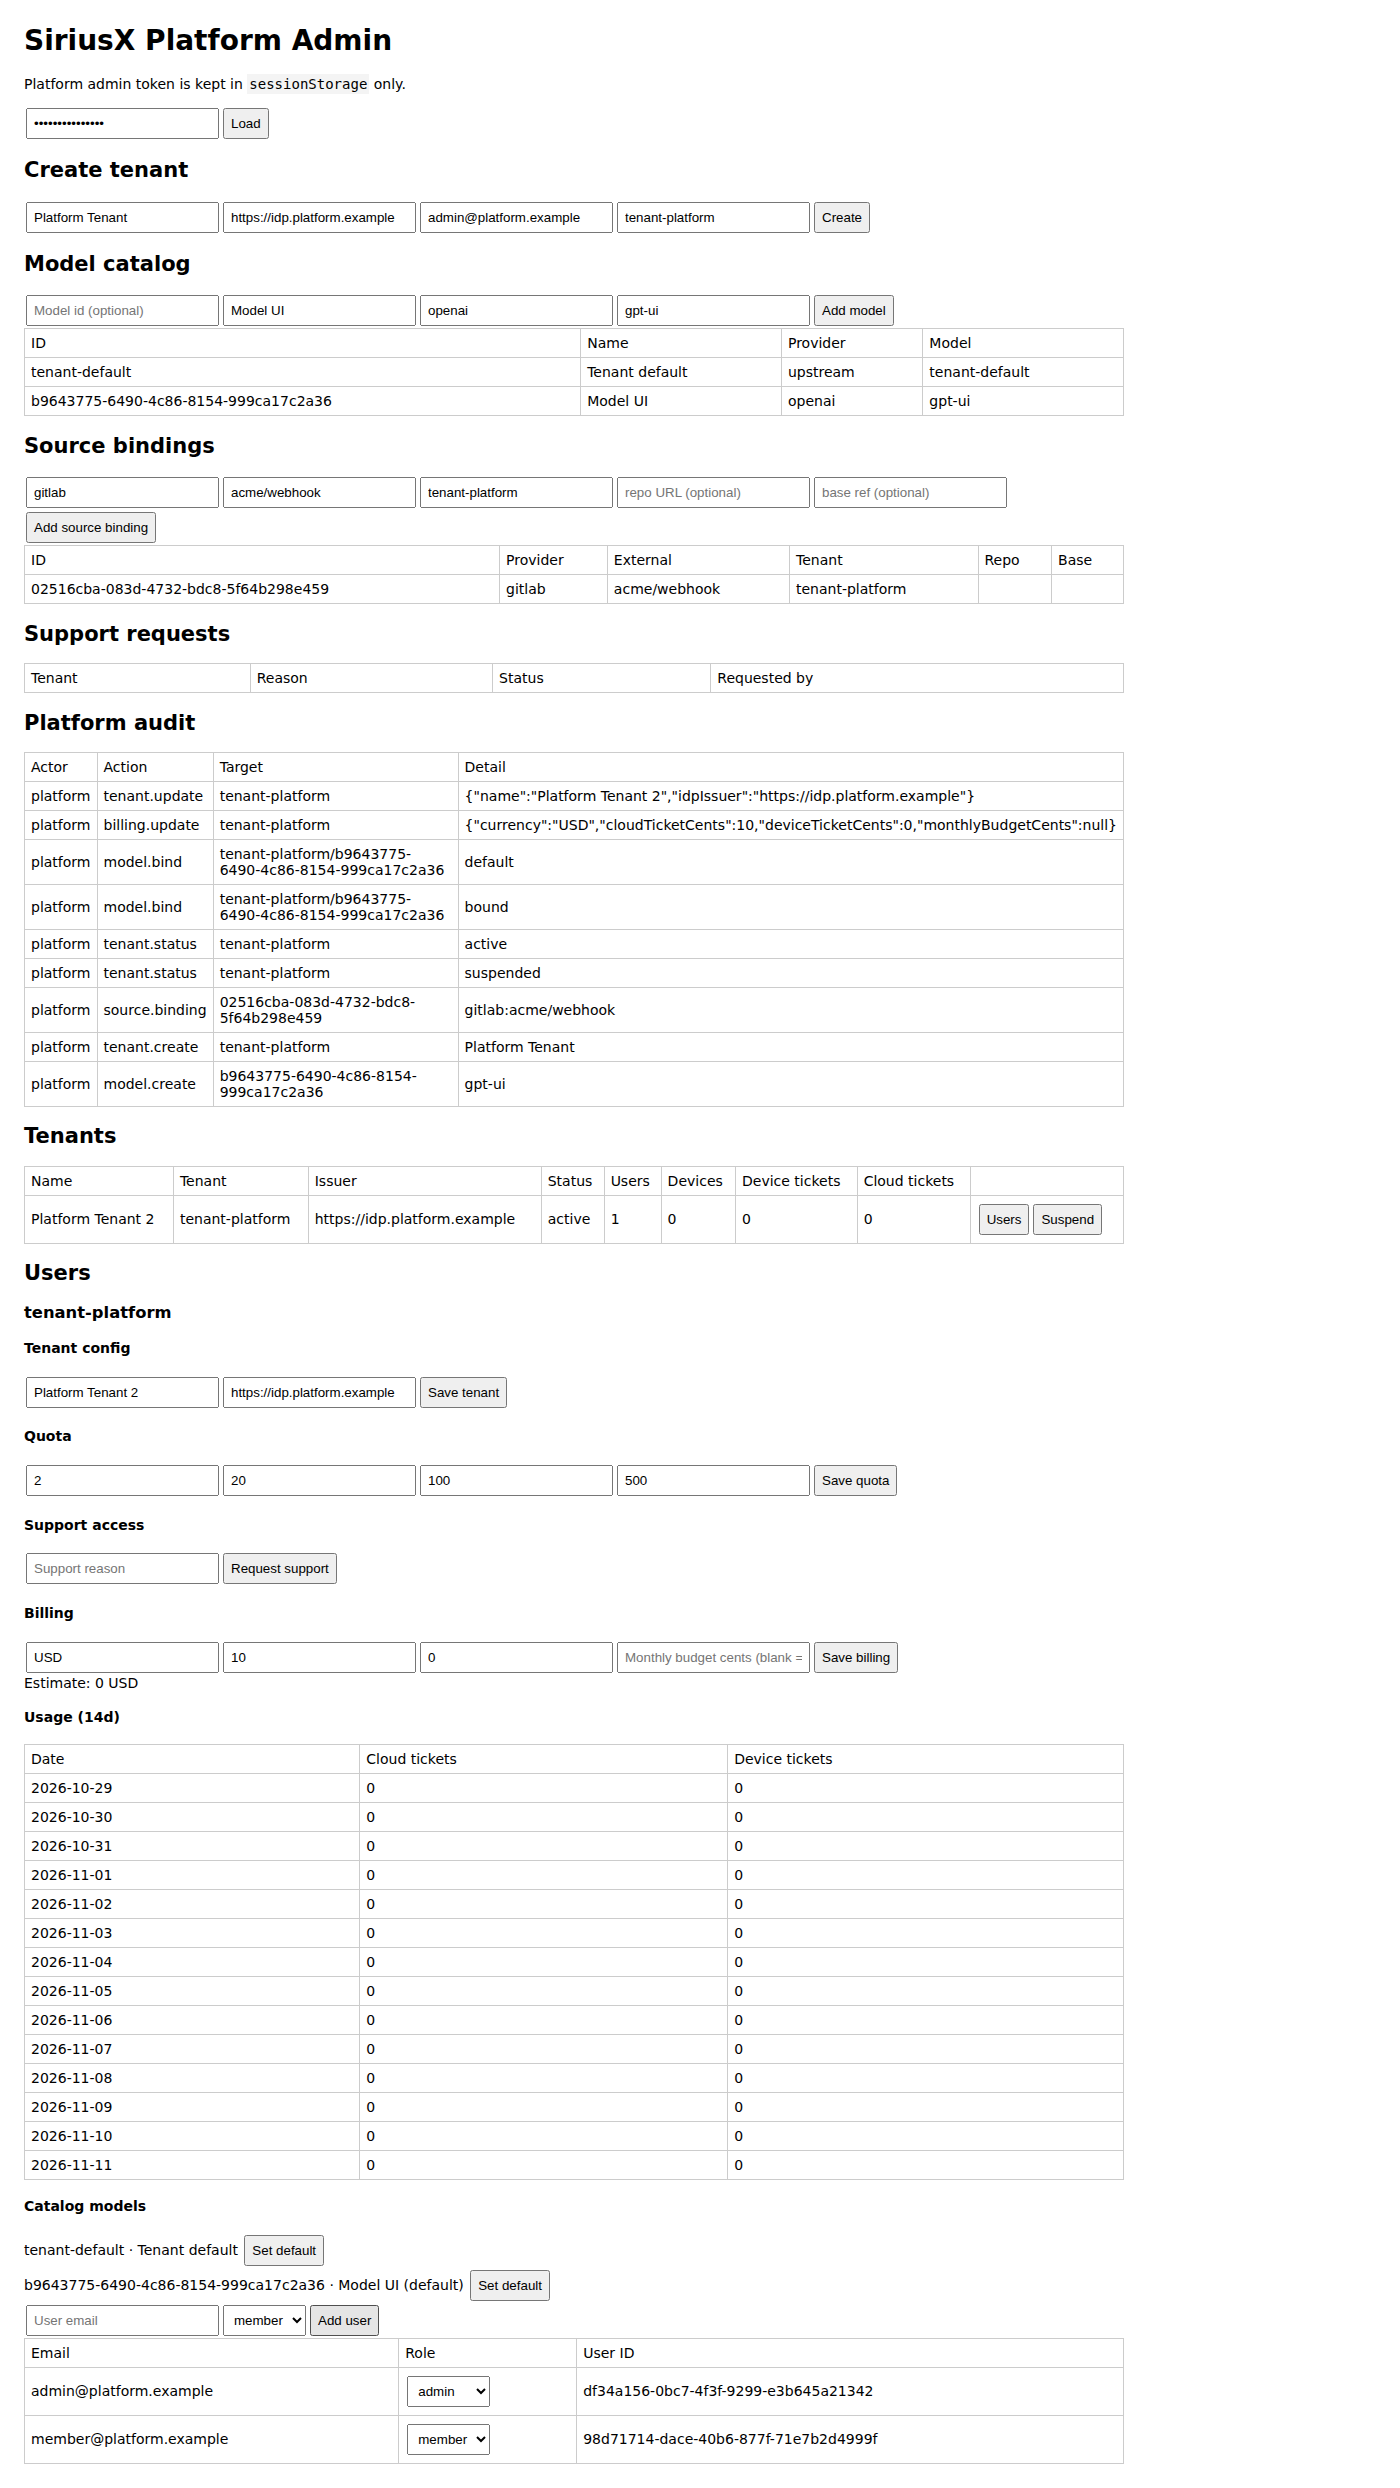
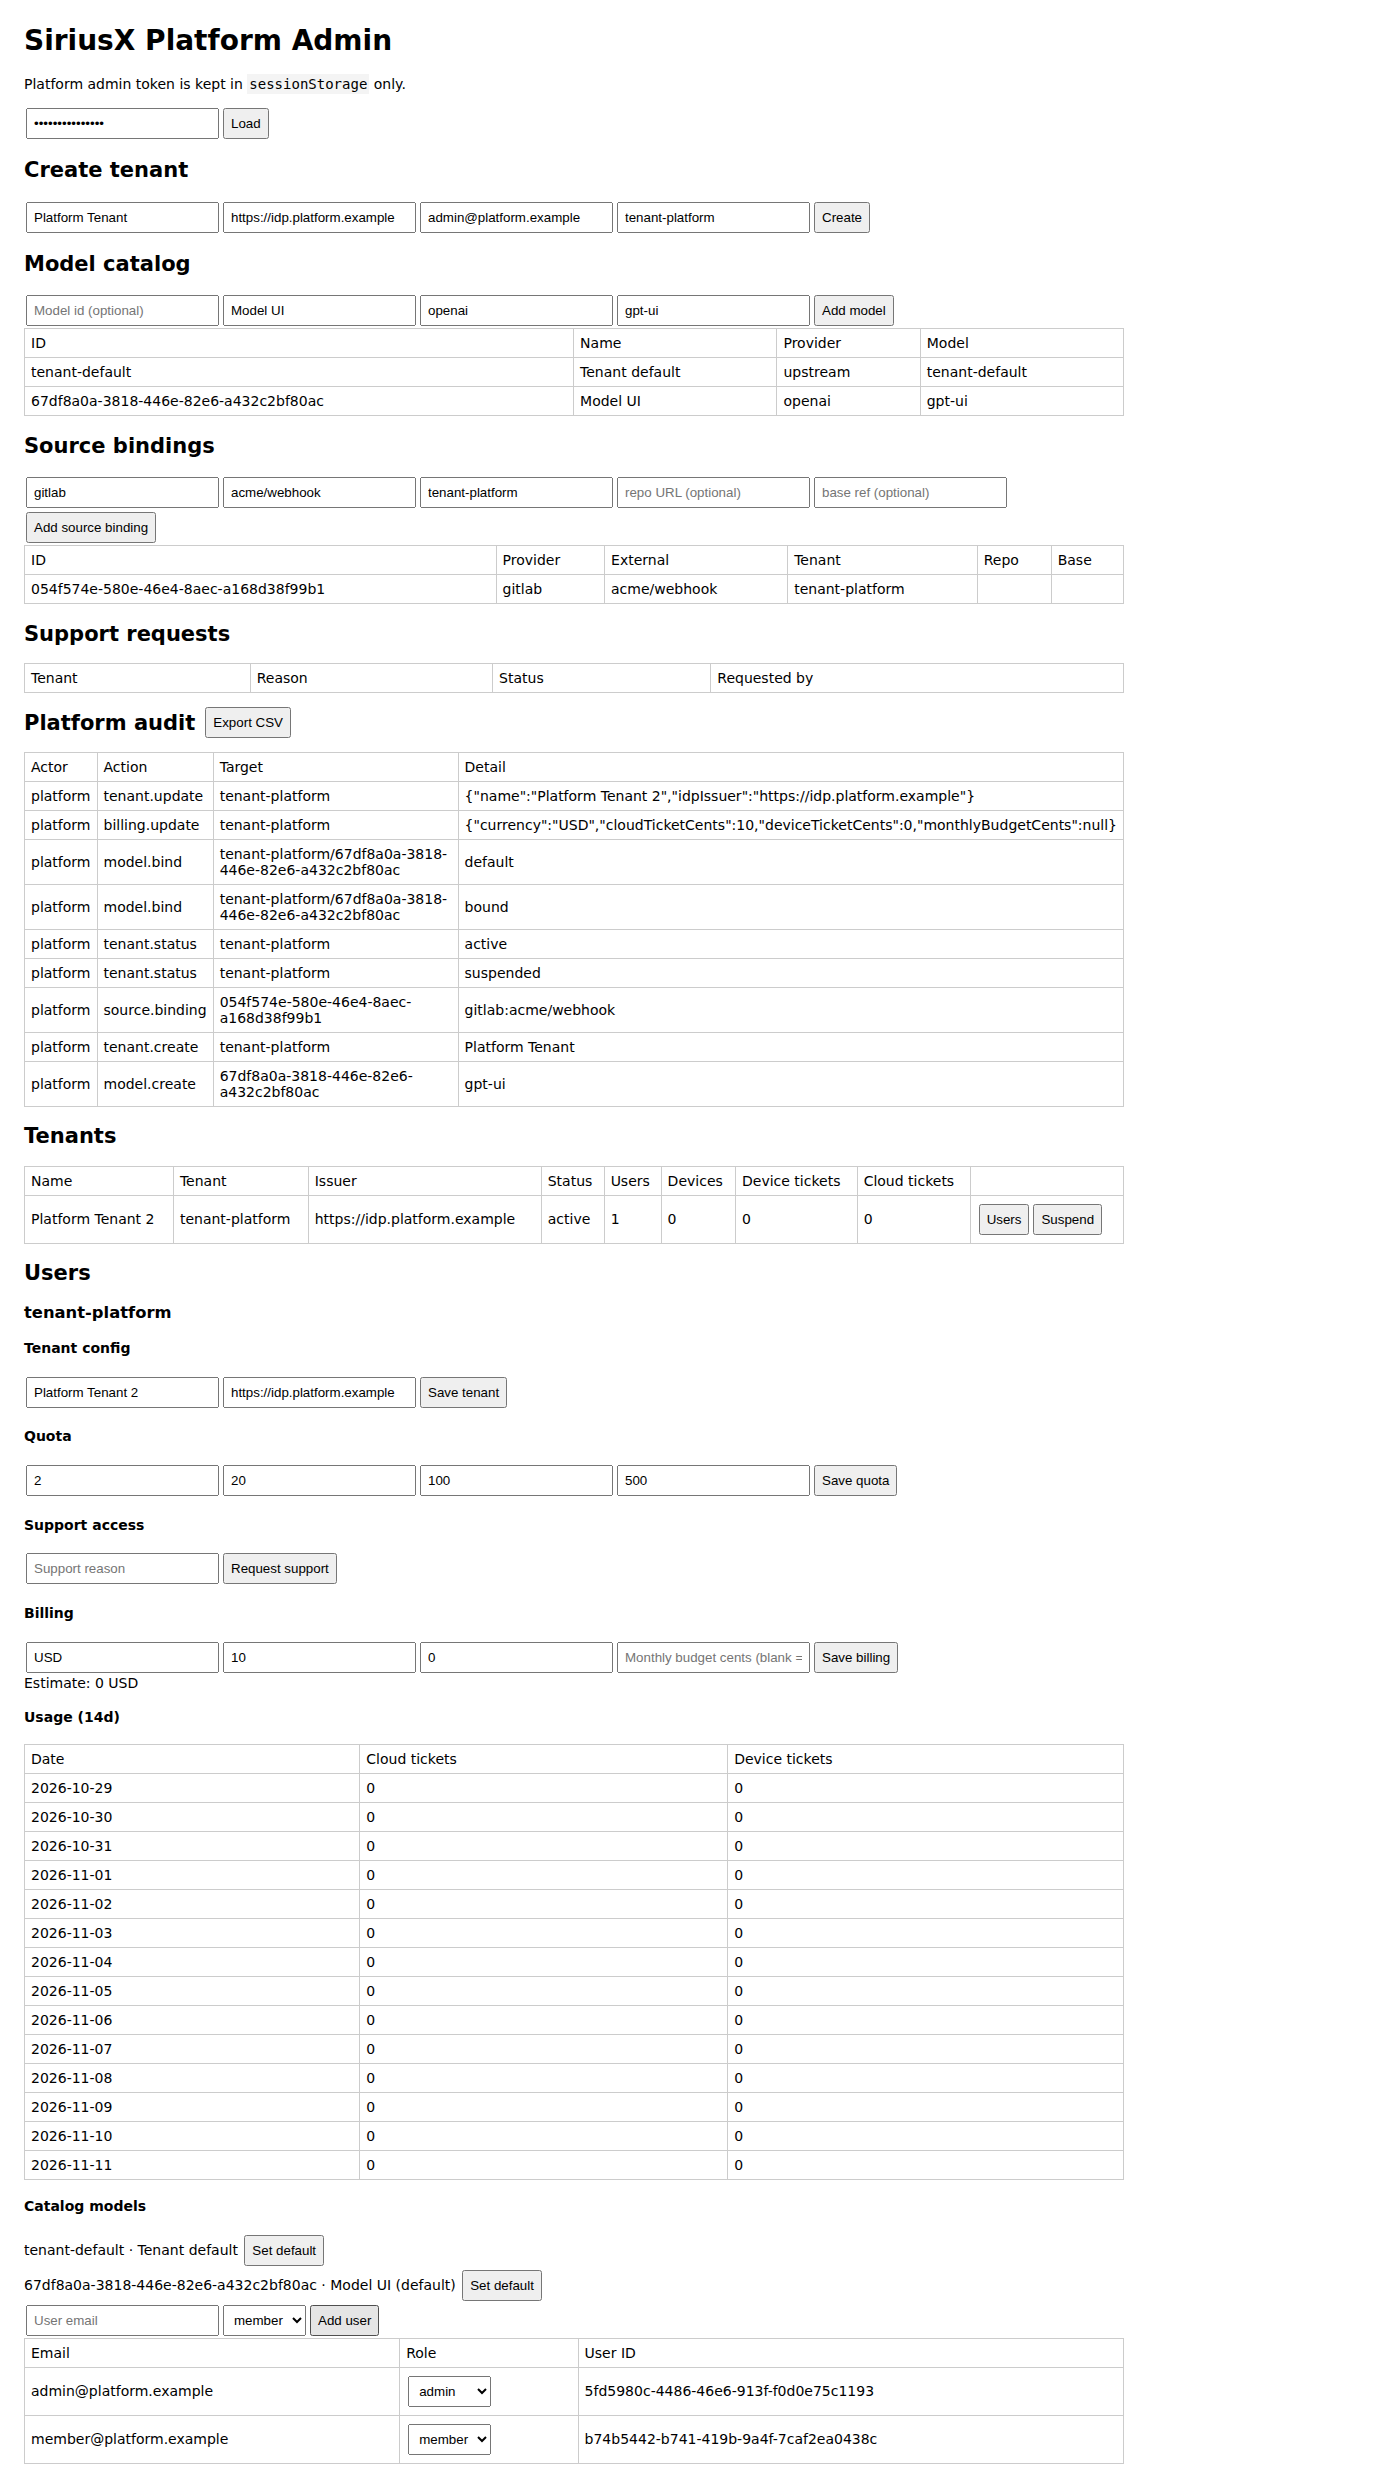
feat: export platform audit logs

diff --git a/apps/control-plane/src/server.ts b/apps/control-plane/src/server.ts
@@ -122,7 +122,7 @@ export async function startControlPlaneServer(options: ControlPlaneServerOptions
 <div id="models"><h2>Model catalog</h2><input id="modelId" placeholder="Model id (optional)"><input id="modelName" placeholder="Display name"><input id="modelProvider" placeholder="Provider"><input id="modelNameId" placeholder="Provider model id"><button id="createModel">Add model</button><div id="modelList">Load to begin.</div></div>
 <div id="sourceBindings"><h2>Source bindings</h2><input id="sourceProvider" placeholder="provider"><input id="sourceExternal" placeholder="external id"><input id="sourceTenant" placeholder="tenant id"><input id="sourceRepo" placeholder="repo URL (optional)"><input id="sourceBase" placeholder="base ref (optional)"><button id="createSource">Add source binding</button><div id="sourceList">Load to begin.</div></div>
 <h2>Support requests</h2><div id="supportRequests">Load to begin.</div>
-<h2>Platform audit</h2><div id="platformAudit">Load to begin.</div>
+<div style="display:flex;align-items:center;gap:8px"><h2>Platform audit</h2><button id="exportPlatformAudit">Export CSV</button></div><div id="platformAudit">Load to begin.</div>
 <h2>Tenants</h2><div id="tenants">Load to begin.</div>
 <h2 id="usersTitle" style="display:none">Users</h2><div id="users"></div>
 <div id="error" style="color:#b00020"></div>
@@ -215,6 +215,7 @@ async function loadUsers(tenantId) {
   host.append(table);
 }
 document.getElementById('load').onclick = async () => { try { sessionStorage.setItem('platformToken', document.getElementById('token').value); await Promise.all([loadTenants(), loadModels(), loadPlatformAudit(), loadSupportRequests(), loadSourceBindings()]); } catch (e) { err(e); } };
+document.getElementById('exportPlatformAudit').onclick = async () => { try { const response = await fetch('/v1/admin/audit/export?format=csv', {headers: {'x-siriusx-platform-token': token()}}); if (!response.ok) throw new Error('HTTP ' + response.status); const blob = await response.blob(); const link = document.createElement('a'); link.href = URL.createObjectURL(blob); link.download = 'siriusx-platform-audit.csv'; link.click(); URL.revokeObjectURL(link.href); } catch (e) { err(e); } };
 document.getElementById('createSource').onclick = async () => { try { await api('/v1/admin/source-bindings', {method:'POST', body: JSON.stringify({provider: document.getElementById('sourceProvider').value, externalId: document.getElementById('sourceExternal').value, tenantId: document.getElementById('sourceTenant').value, ...(document.getElementById('sourceRepo').value === '' ? {} : {repoUrl: document.getElementById('sourceRepo').value}), ...(document.getElementById('sourceBase').value === '' ? {} : {baseRef: document.getElementById('sourceBase').value})})}); await loadSourceBindings(); await loadPlatformAudit(); } catch (e) { err(e); } };
 document.getElementById('createModel').onclick = async () => { try { await api('/v1/admin/models', {method:'POST', body: JSON.stringify({id: document.getElementById('modelId').value || undefined, name: document.getElementById('modelName').value, provider: document.getElementById('modelProvider').value, model: document.getElementById('modelNameId').value})}); await loadModels(); } catch (e) { err(e); } };
 document.getElementById('createTenant').onclick = async () => { try { await api('/v1/admin/tenants', {method:'POST', body: JSON.stringify({name:document.getElementById('name').value, idpIssuer:document.getElementById('issuer').value, adminEmail:document.getElementById('email').value, ...(document.getElementById('tenantId').value === '' ? {} : {tenantId:document.getElementById('tenantId').value})})}); await loadTenants(); await loadPlatformAudit(); } catch (e) { err(e); } };
@@ -289,6 +290,19 @@ document.getElementById('createTenant').onclick = async () => { try { await api(
         }
         if (request.method === 'GET' && parts[2] === 'audit' && parts[3] === undefined) {
           write(response, 200, { audit: control.listPlatformAudit() })
+          return
+        }
+        if (request.method === 'GET' && parts[2] === 'audit' && parts[3] === 'export') {
+          const rows = control.listPlatformAudit()
+          if (url.searchParams.get('format') === 'csv') {
+            const columns = ['id', 'actor', 'action', 'target', 'detail', 'createdAt']
+            const escape = (value: unknown): string => { const text = value === null || value === undefined ? '' : String(value); return /[",\n]/u.test(text) ? `"${text.replace(/"/gu, '""')}"` : text }
+            const csv = [columns.join(','), ...rows.map(row => columns.map(column => escape(row[column as keyof typeof row])).join(','))].join('\n') + '\n'
+            response.writeHead(200, { 'content-type': 'text/csv; charset=utf-8', 'content-disposition': 'attachment; filename="siriusx-platform-audit.csv"', 'cache-control': 'no-store' })
+            response.end(csv)
+            return
+          }
+          write(response, 200, { audit: rows })
           return
         }
         if (parts[2] === 'source-bindings' && parts[3] === undefined) {

diff --git a/evidence/S5/15-platform-admin-ui/run.ts b/evidence/S5/15-platform-admin-ui/run.ts
@@ -56,9 +56,9 @@ try {
   await page.waitForTimeout(500)
   const body = await page.locator('body').innerText()
   await page.screenshot({ path: '/root/siriusx/evidence/S5/15-platform-admin-ui/admin.png', fullPage: true })
-  const result = { tenant: body.includes('tenant-platform'), suspended, usage: body.includes('Platform Tenant 2'), quota: body.includes('Quota') && body.includes('Save quota'), usageDaily: body.includes('Usage (14d)'), source: body.includes('acme/webhook'), billing: body.includes('Billing') && body.includes('Estimate:'), model: body.includes('Model UI') && body.includes('Catalog models'), audit: body.includes('Platform audit') && body.includes('tenant.create'), user: body.includes('member@platform.example'), errors }
+  const result = { tenant: body.includes('tenant-platform'), suspended, usage: body.includes('Platform Tenant 2'), quota: body.includes('Quota') && body.includes('Save quota'), usageDaily: body.includes('Usage (14d)'), source: body.includes('acme/webhook'), billing: body.includes('Billing') && body.includes('Estimate:'), model: body.includes('Model UI') && body.includes('Catalog models'), audit: body.includes('Platform audit') && body.includes('tenant.create'), platformExport: body.includes('Export CSV'), user: body.includes('member@platform.example'), errors }
   console.log(JSON.stringify(result, null, 2))
-  if (!result.tenant || !result.suspended || !result.usage || !result.quota || !result.usageDaily || !result.source || !result.billing || !result.model || !result.audit || !result.user || errors.length > 0) process.exitCode = 1
+  if (!result.tenant || !result.suspended || !result.usage || !result.quota || !result.usageDaily || !result.source || !result.billing || !result.model || !result.audit || !result.platformExport || !result.user || errors.length > 0) process.exitCode = 1
 } finally {
   await browser.close(); await server.close(); await rm(root, { recursive: true, force: true })
 }

diff --git a/docs/status.md b/docs/status.md
@@ -8,7 +8,7 @@
 | S3 本机闭环 | `packages/executor-local`、`plugins/executor-local`、`apps/autobot` | `evidence/S3/` | **完成**：真实 DSH AgentLoop、Bot/DSH Web Host SIGKILL/重启、模型断线、previews/TTL/进程组清理/env 隔离/symlink 越界防护、lost 自动 resume 重试、sandbox orphan sweep + systemd timer 通过；tag `executor-v0.1.0` |
 | S4 工单界面 | 四个独立 client package + `packages/app-contract` + `apps/autobot/src/server.ts` | `evidence/S4/` | **部分**：发起/阶段/diff/排序/断线清空/审批/慢任务打断、四插件拆分通过；10 天自用待补 |
 | S5 登录/租户 | `plugins/account-sso`、`apps/control-plane`（含 device gateway/model gateway）、Desktop enterprise gate | `evidence/S5/` | **部分**：OIDC/隔离/配对/长连接/模型网关/隐私 badge/个人 Bot 派工/原生入口管理员开关、全栈离线一键安装、session TTL 过期拒绝、server-side revocation、server-side authority 通过；真实 IdP、KMS 待补 |
-| S6 工具网关 | `apps/tool-gateway`、`packages/analytics`、local_dir 上行过滤 | `evidence/S6/` | **部分**：审批过期 sweep/审计/fail-closed/分级/Bot 事件接线/完整 ticket trace + audit chain 状态 + tenant-scoped audit、管理面 API/UI + 平台运营 `/admin` + tenant quota enforcement、model catalog/binding/runtime enforcement、tenant tool policy/audit summary/platform audit、daily usage trend、tenant SSO/config editing、support access approval、tenant suspend/resume/billing estimate、source bindings/webhooks + auto-dispatch、audit CSV export、source event manual dispatch、tool-gateway 默认无 wildcard CORS、audit hash chain + verify endpoint/Vault KV v1+v2、TTL 轮换与 fail-closed 凭据适配、模型 key 抓包隔离、agent env/audit 凭据隔离、设备离线宽限 lost + 宽限期内重连恢复通过；真实 KMS/Vault 待补 |
+| S6 工具网关 | `apps/tool-gateway`、`packages/analytics`、local_dir 上行过滤 | `evidence/S6/` | **部分**：审批过期 sweep/审计/fail-closed/分级/Bot 事件接线/完整 ticket trace + audit chain 状态 + tenant-scoped audit、管理面 API/UI + 平台运营 `/admin` + tenant quota enforcement、model catalog/binding/runtime enforcement、tenant tool policy/audit summary/platform audit、daily usage trend、tenant SSO/config editing、support access approval、tenant suspend/resume/billing estimate、source bindings/webhooks + auto-dispatch、audit CSV export、source event manual dispatch、platform audit export、tool-gateway 默认无 wildcard CORS、audit hash chain + verify endpoint/Vault KV v1+v2、TTL 轮换与 fail-closed 凭据适配、模型 key 抓包隔离、agent env/audit 凭据隔离、设备离线宽限 lost + 宽限期内重连恢复通过；真实 KMS/Vault 待补 |
 | S7 云执行 | `packages/cloud-executor`、`packages/kernel-acp` | `evidence/S7/` | **部分**：Docker/ACP/真实 dsh+pi（含 sandbox）/同工单内核一致性、本地/云端 DSH 事件序列一致性、ACP 边界/卷并发决策/云端 repo clone/沙箱 dispose/assignment timeout/资源限额+cap-drop/no-new-privileges+env+出口 allowlist/SQLite 恢复/GitHub/GitLab connector、gateway 审批写、mock Issue→MR 通过；真实平台 Issue→MR、M2 真崩溃待补 |
 | S8 发布 | `plugins/brand-siriusx`、`deploy/release`、`deploy/offline` | `evidence/S8/` | **部分**：品牌/图标/打包参数、Linux 全依赖离线 tar（含 sandbox image）、DSH Web 离线镜像、全栈 Compose、internal 网络隔离、断网 Debian 容器安装、native/Docker 单机安装、全栈离线一键包、health version/commit、`/ready` 就绪探针、Compose healthcheck、企业插件 bundle/资源清单、更新源 static feed（realpath 防 traversal）、本地发布门禁、脚本可移植性检查、发布清单、CycloneDX SBOM（transitive + license）+ license policy gate、补丁回移演练通过；mac/win 签名安装与全服务干净机验收待补 |
 | S9 Web | DSH Web Host + Team panel control-plane 模式 | `evidence/S9/` | **部分**：同插件复用、两租户隔离、HttpOnly cookie 同源网关、OIDC state cookie 绑定、浏览器 OIDC（本地 HS256/RS256 JWKS IdP）登录并看工单、同工单跨接入模式渲染一致、无原生对话/本地目录入口、Web 审批、HTTP/WS Origin 校验（支持 forwarded headers）、登录限流/trusted proxy IP、1 MiB 请求体/WS frame 上限、Secure cookie、login CSP/HSTS、local logout / OIDC RP-initiated logout、云端 repo URL 校验、项目发起/打断/重启对账/follow-up（API + Team UI，Docker+fake ACP）通过；真实企业 IdP/真实 agent 待补 |

diff --git a/TODO.md b/TODO.md
@@ -80,6 +80,7 @@
 - [x] Feishu/Teams inbound webhook base（token + binding + idempotency）
 - [x] Tenant audit CSV export（tool-gateway + control-plane proxy + Admin UI）
 - [x] Source event manual dispatch + Tenant Admin UI
+- [x] Platform audit CSV export
 - [x] Web Gateway 支持 X-Forwarded-Proto/Host 的 HTTPS Origin
 - [x] Trusted proxy 下的登录限流按 X-Forwarded-For 区分客户端
 - [x] HTTPS 下返回 HSTS

diff --git a/evidence/S5/29-platform-audit-export/README.md b/evidence/S5/29-platform-audit-export/README.md
@@ -1,0 +1,9 @@
+# Platform audit CSV export
+
+- `GET /v1/admin/audit/export?format=csv`
+- 仅 platform admin token
+- 导出 platform_audit：id / actor / action / target / detail / createdAt
+- `/admin` 增加 Export CSV 按钮
+
+浏览器验证 Export CSV 可见，console errors 为空。
+证据：`typecheck.txt`、`../15-platform-admin-ui/admin.png`。
